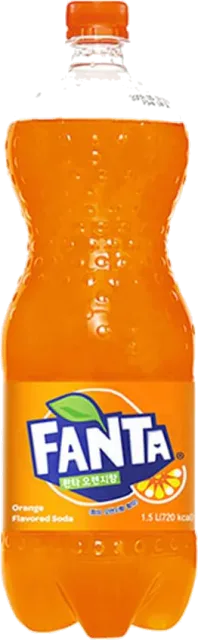
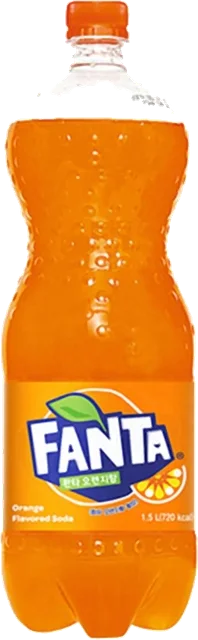
MatchDay Kitchen 3D drinks: no white base, Fanta neck restored
- drink3d.prepare(): fills see-through gaps inside bottles, cuts the light base (splash, shadow, rim) off the 3D shape,
  pulls the outline in past the white fringe; groups/glasses: white puddle under them made see-through
- Fanta re-cut keeping its clear neck and shoulder (fringe peeled); water splash trimmed; changelog

diff --git a/src/lib/drink3d.ts b/src/lib/drink3d.ts
@@ -51,25 +51,59 @@ function compile(gl: WebGLRenderingContext) {
 }
 
 /** The outline of the drink, row by row, from the photo's transparency: [y (0 top..1 bottom), half width (px)]. */
-function profile(img: HTMLImageElement) {
+/**
+ * Reads the drink from its cut-out photo and repairs it for 3D:
+ *  - holes inside the outline (clear plastic necks that came out see-through) are filled with the colour beside them,
+ *  - the leftover base under the bottle (white splash, grey shadow, white rim) is cut off,
+ *  - the outline is pulled in a little so the thin white fringe of the cut-out does not show.
+ * Returns the outline rows [y (0 top..1 bottom), half width (px), centre x (px)] and the repaired picture.
+ */
+function prepare(img: HTMLImageElement, fill = true) {
   const w = img.naturalWidth, h = img.naturalHeight, cv = document.createElement('canvas');
   cv.width = w; cv.height = h;
-  const cx2 = cv.getContext('2d', { willReadFrequently: true })!;
-  cx2.drawImage(img, 0, 0);
-  const data = cx2.getImageData(0, 0, w, h).data, ROWS = 140, rows: [number, number, number][] = [];
-  for (let j = 0; j <= ROWS; j++) {
-    const y = Math.min(h - 1, Math.round((j / ROWS) * (h - 1)));
-    let l = -1, r = -1;
-    for (let x = 0; x < w; x++) if (data[(y * w + x) * 4 + 3] > 110) { if (l < 0) l = x; r = x; }
-    if (l >= 0) rows.push([y / (h - 1), (r - l) / 2, (l + r) / 2]);
+  const ctx = cv.getContext('2d', { willReadFrequently: true })!;
+  ctx.drawImage(img, 0, 0);
+  const im = ctx.getImageData(0, 0, w, h), data = im.data;
+  const lo = new Int32Array(h).fill(-1), hi = new Int32Array(h).fill(-1), bright = new Float32Array(h);
+  for (let y = 0; y < h; y++) {
+    // Groups and glasses (no hole filling): the white puddle or reflection under them is made see-through.
+    if (!fill && y > h * 0.78) for (let x = 0; x < w; x++) { const i = (y * w + x) * 4, mn = Math.min(data[i], data[i + 1], data[i + 2]), mx = Math.max(data[i], data[i + 1], data[i + 2]); if (mn > 196 && mx - mn < 28) data[i + 3] = 0; }
+    let n = 0, sum = 0;
+    for (let x = 0; x < w; x++) { const i = (y * w + x) * 4; if (data[i + 3] > 110) { if (lo[y] < 0) lo[y] = x; hi[y] = x; n++; sum += (data[i] + data[i + 1] + data[i + 2]) / 3; } }
+    bright[y] = n ? sum / n : 255;
+    // Fill see-through gaps inside the outline with the colour to their left (so the shape is solid).
+    if (fill && lo[y] >= 0) {
+      let r = data[(y * w + lo[y]) * 4], g = data[(y * w + lo[y]) * 4 + 1], b = data[(y * w + lo[y]) * 4 + 2];
+      for (let x = lo[y]; x <= hi[y]; x++) {
+        const i = (y * w + x) * 4;
+        if (data[i + 3] > 110) { r = data[i]; g = data[i + 1]; b = data[i + 2]; data[i + 3] = 255; }
+        else { data[i] = r; data[i + 1] = g; data[i + 2] = b; data[i + 3] = 255; }
+      }
+    }
   }
-  // Smooth the outline a little (no ragged edges from splashes or droplets).
-  return rows.map((row, i) => { const a = rows[Math.max(0, i - 1)], b = rows[Math.min(rows.length - 1, i + 1)]; return [row[0], (a[1] + row[1] * 2 + b[1]) / 4, row[2]] as [number, number, number]; });
+  ctx.putImageData(im, 0, 0);
+  // The base under the bottle: rows near the bottom that are much lighter than the bottle, or wider than its body.
+  const widths: number[] = [];
+  for (let y = Math.round(h * 0.3); y < Math.round(h * 0.8); y++) if (lo[y] >= 0) widths.push(hi[y] - lo[y]);
+  widths.sort((a, b) => a - b);
+  const body = widths[Math.floor(widths.length / 2)] || w, bodyBright = (() => { let s = 0, n = 0; for (let y = Math.round(h * 0.4); y < Math.round(h * 0.8); y++) if (lo[y] >= 0) { s += bright[y]; n++; } return n ? s / n : 128; })();
+  let bottom = h - 1;
+  while (bottom > h * 0.85 && (lo[bottom] < 0 || (fill && hi[bottom] - lo[bottom] > body * 1.04) || (bright[bottom] > 200 && bright[bottom] > bodyBright + 25))) bottom--;
+  let top = 0;
+  while (top < h * 0.1 && lo[top] < 0) top++;
+  const ROWS = 150, rows: [number, number, number][] = [];
+  for (let j = 0; j <= ROWS; j++) {
+    const y = Math.round(top + (j / ROWS) * (bottom - top));
+    if (lo[y] >= 0) rows.push([y / (h - 1), Math.max(0, (hi[y] - lo[y]) / 2 - Math.max(1.5, w * 0.012)), (lo[y] + hi[y]) / 2]);
+  }
+  // Smooth the outline a little (no ragged edges from droplets).
+  const smooth = rows.map((row, i) => { const a = rows[Math.max(0, i - 1)], b = rows[Math.min(rows.length - 1, i + 1)]; return [row[0], (a[1] + row[1] * 2 + b[1]) / 4, row[2]] as [number, number, number]; });
+  return { rows: smooth, canvas: cv, bottom: bottom / (h - 1) };
 }
 
 function latheMesh(img: HTMLImageElement) {
   const W = img.naturalWidth, H = img.naturalHeight, s = 2 / H; // world height 2
-  const rows = profile(img), SEG = 48;
+  const { rows, canvas } = prepare(img), SEG = 48;
   const cx = rows.reduce((a, r) => a + r[2], 0) / rows.length;
   const pos: number[] = [], nor: number[] = [], uv: number[] = [], idx: number[] = [];
   // Two half shells (front as photographed, back the same label read the right way round), so there is no seam
@@ -103,11 +137,13 @@ function latheMesh(img: HTMLImageElement) {
     for (let i = 0; i <= SEG * 2; i++) { const f = (i / (SEG * 2)) * Math.PI * 2; pos.push(r * Math.sin(f), y, r * Math.cos(f)); nor.push(0, top ? 1 : -1, 0); uv.push(cx / W, row[0]); }
     for (let i = 0; i < SEG * 2; i++) idx.push(centre, centre + 1 + i, centre + 2 + i);
   }
-  return { pos, nor, uv, idx, halfW: (W / 2) * s };
+  return { pos, nor, uv, idx, halfW: (W / 2) * s, picture: canvas as TexImageSource };
 }
 function cardMesh(img: HTMLImageElement) {
-  const a = img.naturalWidth / img.naturalHeight, w = a; // height 2, width 2a
-  return { pos: [-w, 1, 0, w, 1, 0, -w, -1, 0, w, -1, 0], nor: [0, 0, 1, 0, 0, 1, 0, 0, 1, 0, 0, 1], uv: [0, 0, 1, 0, 0, 1, 1, 1], idx: [0, 2, 1, 1, 2, 3], halfW: w };
+  // The picture without the light base under it (splash, shadow).
+  const { canvas, bottom } = prepare(img, false);
+  const a = img.naturalWidth / (img.naturalHeight * bottom), w = a; // height 2, width 2a
+  return { pos: [-w, 1, 0, w, 1, 0, -w, -1, 0, w, -1, 0], nor: [0, 0, 1, 0, 0, 1, 0, 0, 1, 0, 0, 1], uv: [0, 0, 1, 0, 0, bottom, 1, bottom], idx: [0, 2, 1, 1, 2, 3], halfW: w, picture: canvas as TexImageSource };
 }
 
 /** Puts the turning 3D drink into `box` (over the flat photo). isRunning() false = hold still (pause, hover, off screen). */
@@ -132,7 +168,7 @@ export function mount3D(box: HTMLElement, src: string, mode: Mode, isRunning: ()
     gl.bufferData(gl.ELEMENT_ARRAY_BUFFER, big ? new Uint32Array(m.idx) : new Uint16Array(m.idx), gl.STATIC_DRAW);
     const tex = gl.createTexture(); gl.bindTexture(gl.TEXTURE_2D, tex);
     gl.pixelStorei(gl.UNPACK_PREMULTIPLY_ALPHA_WEBGL, false);
-    gl.texImage2D(gl.TEXTURE_2D, 0, gl.RGBA, gl.RGBA, gl.UNSIGNED_BYTE, img);
+    gl.texImage2D(gl.TEXTURE_2D, 0, gl.RGBA, gl.RGBA, gl.UNSIGNED_BYTE, m.picture);
     gl.texParameteri(gl.TEXTURE_2D, gl.TEXTURE_WRAP_S, gl.CLAMP_TO_EDGE); gl.texParameteri(gl.TEXTURE_2D, gl.TEXTURE_WRAP_T, gl.CLAMP_TO_EDGE);
     gl.texParameteri(gl.TEXTURE_2D, gl.TEXTURE_MIN_FILTER, gl.LINEAR); gl.texParameteri(gl.TEXTURE_2D, gl.TEXTURE_MAG_FILTER, gl.LINEAR);
     const U = (n: string) => gl.getUniformLocation(prog, n);

diff --git a/CHANGELOG.md b/CHANGELOG.md
@@ -8,6 +8,15 @@ in HANDOVER-TODO.md.
 
 ---
 
+## 2026-11-21: MatchDay Kitchen: 3D drinks without the white base; Fanta's neck
+
+**Who it affects:** fans ordering at lobistarsfc.com/kitchen/. **Nothing to do.**
+
+- The 3D drinks no longer stand on a white base: the splash, shadow and white rim left under the bottles from the
+  original photos are cut off, and the white puddle under the Malta Guinness group and the juice glass is removed.
+- Fanta's neck and clear plastic shoulder show again (the cut-out had removed them with the white background);
+  see-through gaps inside any bottle are filled, and the thin white fringe around the cut-outs is gone.
+
 ## 2026-11-20: MatchDay Kitchen: real 3D drinks; Msendo water
 
 **Who it affects:** fans ordering at lobistarsfc.com/kitchen/. **Nothing to do.**
